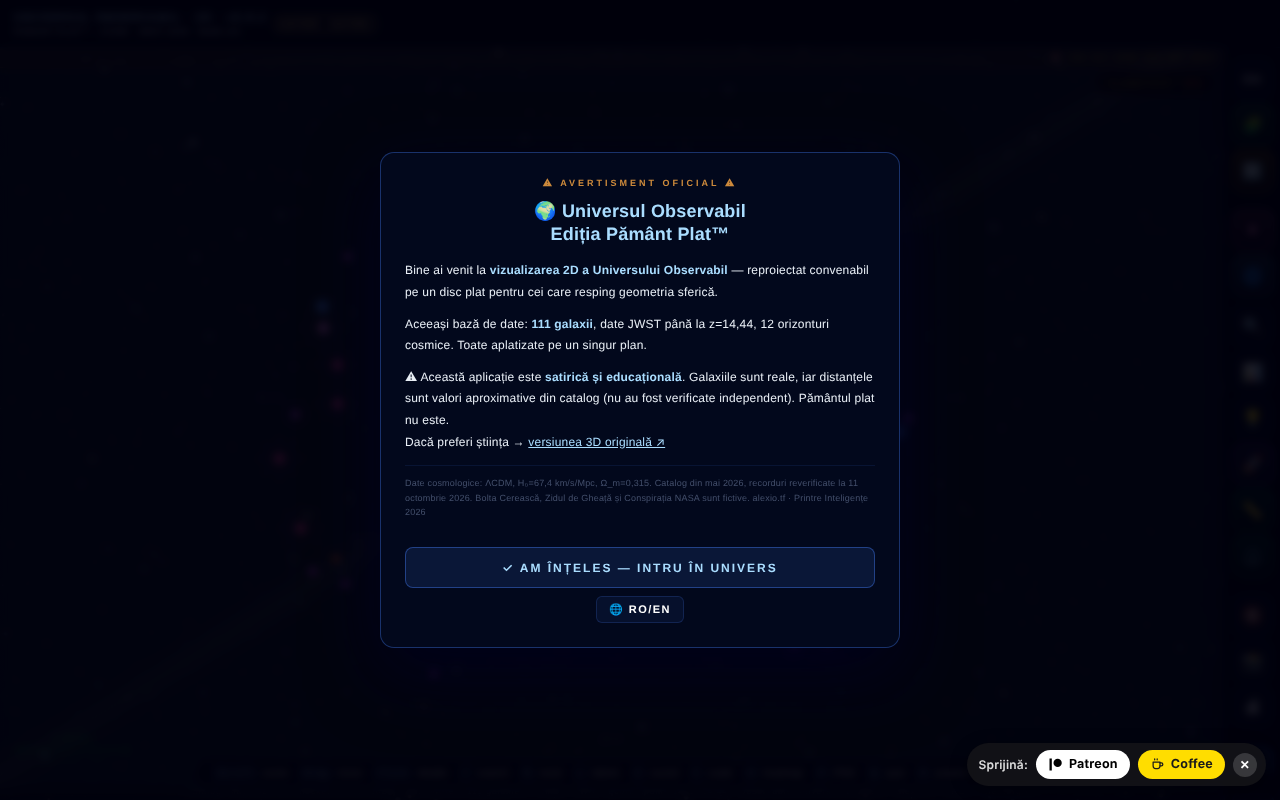
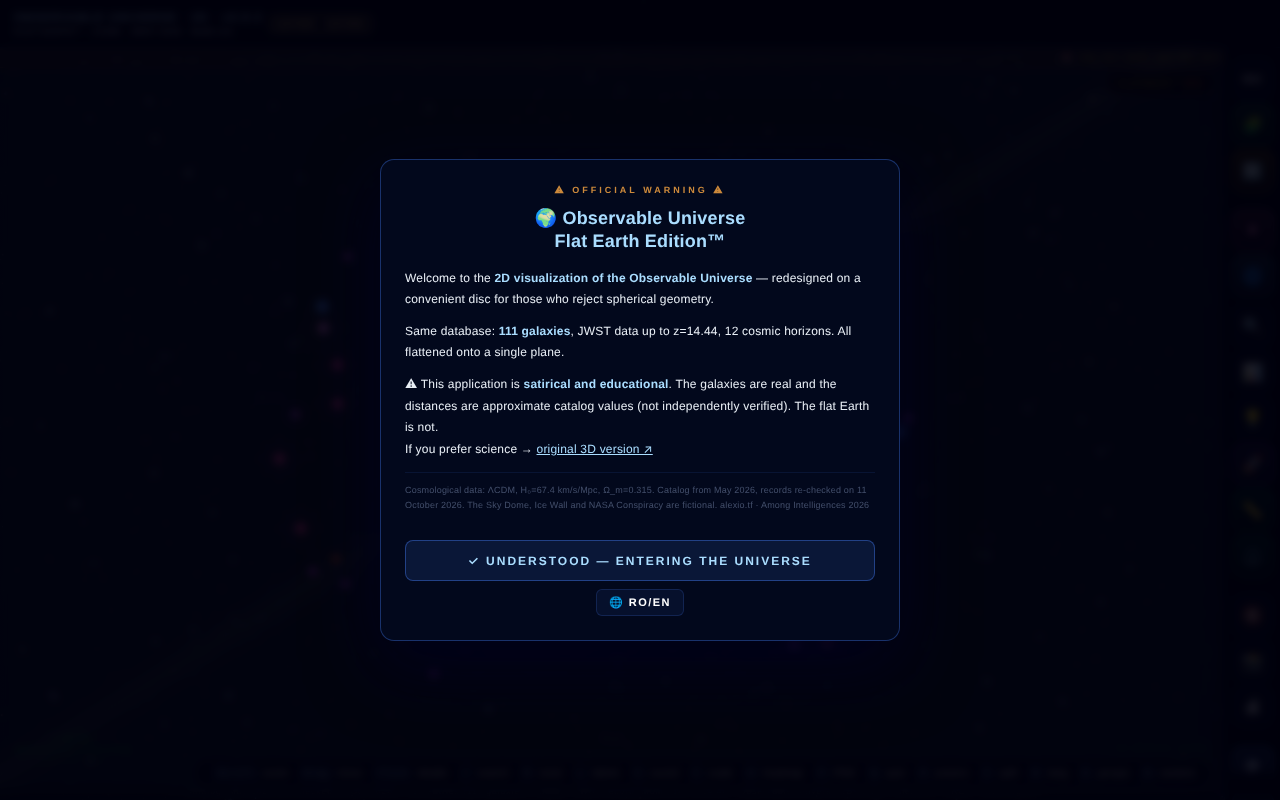
Runda 7 (11 octombrie 2026): defecte noi reparate, hash CSP, îmbunătățiri
Claude-Session: https://claude.ai/code/session_01D2sCEb3hy3nutYexhUfQFs

Changed region(s): [[0.3125, 0.2188, 0.6875, 0.7812], [0.75, 0.9375, 1.0, 1.0]]

diff --git a/index.html b/index.html
@@ -31,16 +31,16 @@
[1 lines of base64/hex data omitted]
 </style>
 
-  <meta http-equiv="Content-Security-Policy" content="default-src 'self'; img-src 'self' data: blob:; style-src 'self' 'unsafe-inline'; font-src 'self' data:; media-src 'self' blob: data:; object-src 'none'; base-uri 'self'; form-action 'self'; worker-src 'self' blob:; script-src 'self' blob: 'sha256-FVyK1YWR1/9w4uQZtFB3BAfkHxmGIktgSaTJ8fmO5vo='; connect-src 'self'">
+  <meta http-equiv="Content-Security-Policy" content="default-src 'self'; img-src 'self' data: blob:; style-src 'self' 'unsafe-inline'; font-src 'self' data:; media-src 'self' blob: data:; object-src 'none'; base-uri 'self'; form-action 'self'; worker-src 'self' blob:; script-src 'self' blob: 'sha256-K1gW7pYahu7icNPE+1ANHS3fIt9LNKQo8BNHj9S5rZU='; connect-src 'self'">
 <meta name="viewport" content="width=device-width,initial-scale=1,viewport-fit=cover,interactive-widget=resizes-content">
-<title>Observable Universe · 2D · v5.9.2 · Flat Earth Edition™</title>
+<title>Observable Universe · 2D · v5.9.3 · Flat Earth Edition™</title>
 <meta name="description" content="2D map of the observable universe — 111 galaxies, 12 cosmic horizons, logarithmic scale. Quiz with leaderboard, LOD zoom, adaptive soundtrack, gravitational groups, permalink with full state. Satirical Flat Earth™ edition. JWST data up to z=14.44. v5.9.1 — UX & accessibility milestone: universal localStorage preferences (CVD, layers, sound, volume persist across sessions); prefers-reduced-motion respected in flyTo / Andromeda / autoRotate; new GUIDE tab 'Simulation Limits' (epistemic honesty); heatmap boost (logarithmic normalization + Gaussian kernel).">
 <meta name="theme-color" content="#040814">
 <meta name="color-scheme" content="dark">
 <meta name="author" content="Alexio — Alexandru Ionuț Chiuță · alexio.tf · ARES (Alianța pentru Reziliență, Exopolitică și Stranietăți) · ares.org.ro">
 <meta name="apple-mobile-web-app-capable" content="yes">
 <meta name="apple-mobile-web-app-status-bar-style" content="black-translucent">
-<meta property="og:title" content="Observable Universe · 2D · v5.9.2 · Flat Earth™">
+<meta property="og:title" content="Observable Universe · 2D · v5.9.3 · Flat Earth™">
 <meta property="og:description" content="111 galaxies on a flat disc — for those who don't believe in spheres. Quiz leaderboard, gravitational groups, adaptive soundtrack. Real JWST data, humor guaranteed.">
 <meta property="og:image" content="https://alexio.tf/og-universe-2d.jpg">
 <script type="application/ld+json">
@@ -1318,7 +1318,7 @@ canvas { will-change: transform; }
 <div id="topbar" role="banner">
   <div style="display:flex;align-items:center;gap:8px;min-width:0">
     <div>
-      <div id="ttl">OBSERVABLE UNIVERSE · 2D · v5.9.2</div>
+      <div id="ttl">OBSERVABLE UNIVERSE · 2D · v5.9.3</div>
       <div id="sub">FLAT EARTH™ · ΛCDM · JWST 2026 · MoM-z14</div>
     </div>
     <span id="satireTag" title="Satirical edition: the Flat Earth elements are fictional / Ediție satirică: elementele Pământ Plat sunt fictive">SATIRĂ · SATIRE</span>
@@ -2098,7 +2098,7 @@ function removeGrandparent(el) {
 // ═══════════════════════════════════════════════════════
 //  VERSION — sursă unică de adevăr pentru număr versiune
 // ═══════════════════════════════════════════════════════
-const VERSION = '5.9.2';
+const VERSION = '5.9.3';
 // N_GAL calculat dinamic după ce GALAXIES e definit (vezi initV3)
 let N_GAL = 0;
 
@@ -3906,6 +3906,11 @@ const GUIDE_TABS_RO = {
     <div class="gfact">💡 <strong>Filozofie:</strong> O hartă bună spune ce e și ce nu e. Această aplicație nu e o fereastră spre univers — e o <em>interpretare</em> educațională a datelor reale, prin alegerile mele de design. Folosește-o ca punct de plecare, nu ca punct de sosire.</div>`,
   changelog: `
     <h3>📋 Istoric versiuni</h3>
+    <h4>v5.9.3 (octombrie 2026) — Riglă tolerantă</h4>
+    <ul>
+      <li>📏 Rigla acceptă și nume parțial (Enter sau ieșire din câmp): dacă potrivirea e unică, galaxia se alege; altfel apare un mesaj cu numărul de potriviri.</li>
+      <li>🪟 Pe mobil, widgetul de sprijin nu mai acoperă fereastra de avertisment (butonul RO/EN).</li>
+    </ul>
     <h4>v5.9.2 (octombrie 2026) — Riglă accesibilă</h4>
     <ul>
       <li>📏 <strong>Rigla</strong>: galaxiile A și B se pot alege și după nume (câmpuri cu listă), fără clic pe hartă — util cu tastatura și pe mobil; buton „Copiază rezultatul”.</li>
@@ -4192,6 +4197,11 @@ const GUIDE_TABS = {
     <div class="gfact">💡 <strong>Philosophy:</strong> A good map says what it is — and what it isn't. This application is not a window onto the universe — it is an educational <em>interpretation</em> of real data, filtered through my design choices. Use it as a starting point, not as a destination.</div>`,
   changelog: `
     <h3>📋 Changelog</h3>
+    <h4>v5.9.3 (October 2026) — Forgiving ruler</h4>
+    <ul>
+      <li>📏 The ruler also accepts partial names (Enter or leaving the field): a unique match selects the galaxy; otherwise a message gives the number of matches.</li>
+      <li>🪟 On mobile, the support widget no longer covers the warning dialog (RO/EN button).</li>
+    </ul>
     <h4>v5.9.2 (October 2026) — Accessible ruler</h4>
     <ul>
       <li>📏 <strong>Ruler</strong>: galaxies A and B can also be chosen by name (inputs with a list), no map click needed — keyboard- and mobile-friendly; “Copy result” button.</li>
@@ -5282,10 +5292,26 @@ function rulerPickInit() {
   if (pa) { pa.value = ''; pa.placeholder = ro ? 'Scrie numele galaxiei…' : 'Type a galaxy name…'; }
   if (pb) { pb.value = ''; pb.placeholder = ro ? 'Scrie numele galaxiei…' : 'Type a galaxy name…'; }
 }
-function rulerPick(which, value) {
+function rulerPick(which, value, final) {
   const v = String(value || '').trim().toLowerCase();
   if (!v) return;
-  const idx = GALAXIES.findIndex(g => g.n.toLowerCase() === v);
+  let idx = GALAXIES.findIndex(g => g.n.toLowerCase() === v || (g.m && (g.m + ' ' + g.n).toLowerCase() === v));
+  if (idx < 0 && final) {
+    // potrivire parțială (la Enter / ieșire din câmp): se acceptă doar dacă e unică
+    const c = [];
+    GALAXIES.forEach((g, i) => { if (g.n.toLowerCase().includes(v)) c.push(i); });
+    const ro = (typeof currentLang !== 'undefined' && currentLang === 'ro');
+    const note = document.getElementById('rpNote');
+    if (c.length === 1) idx = c[0];
+    else {
+      const msg = c.length === 0
+        ? (ro ? 'Nicio galaxie nu conține „' + value.trim() + '”.' : 'No galaxy matches “' + value.trim() + '”.')
+        : (ro ? c.length + ' galaxii se potrivesc cu „' + value.trim() + '”; alege una din listă: ' : c.length + ' galaxies match “' + value.trim() + '”; pick one from the list: ') + c.slice(0, 4).map(i => GALAXIES[i].n).join(', ') + (c.length > 4 ? '…' : '');
+      if (note) note.textContent = msg;
+      if (typeof ariaAnnounce === 'function') ariaAnnounce(msg);
+      return;
+    }
+  }
   if (idx < 0) return;
   if (which === 'A') { if (idx === rulerB) return; rulerA = idx; }
   else { if (idx === rulerA) return; rulerB = idx; }
@@ -5299,7 +5325,7 @@ function rulerPick(which, value) {
 }
 ['A', 'B'].forEach(w => {
   const el = document.getElementById('rpPick' + w);
-  if (el) { el.addEventListener('input', () => rulerPick(w, el.value)); el.addEventListener('change', () => rulerPick(w, el.value)); }
+  if (el) { el.addEventListener('input', () => rulerPick(w, el.value)); el.addEventListener('change', () => rulerPick(w, el.value, true)); }
 });
 
 
@@ -9592,7 +9618,7 @@ window.UV2D.VERSION = VERSION;
   if (!('serviceWorker' in navigator)) return;
   // Inline service worker via blob URL for single-file deployment
   const swCode = `
-const CACHE = 'uv2d-v5.9.2';
+const CACHE = 'uv2d-v5.9.3';
 // BUG 19 FIX: removed ASSETS = [self.location.href] — when the SW is registered via a
 // blob URL, self.location.href IS the blob URL (e.g. blob:https://...), which:
 //   (a) cannot be fetched cross-origin by the SW fetch handler, and
@@ -9755,6 +9781,7 @@ window.addEventListener('load', function initMobileNav() {
 #tf-donate .tf-x,#tf-donate .tf-open{display:inline-flex;align-items:center;justify-content:center;cursor:pointer;text-decoration:none;border:0;color:#fff}
 #tf-donate .tf-x{width:24px;height:24px;border-radius:50%;background:rgba(255,255,255,.16);font-size:12px}
 #tf-donate .tf-open{display:none;width:46px;height:46px;border-radius:50%;background:#e0245e;font-size:20px;box-shadow:0 4px 16px rgba(0,0,0,.32)}
+body:has(#warningOvl:not([style*="none"])) #tf-donate{display:none}
 #tf-donate .tf-cb:checked ~ .tf-panel{display:none}
 #tf-donate .tf-cb:checked ~ .tf-open{display:inline-flex}
 @media (max-width:560px){#tf-donate .tf-lbl{display:none}}

diff --git a/README.md b/README.md
@@ -1,4 +1,4 @@
-# Observable Universe 2D · v5.9.2 · Flat Earth Edition™
+# Observable Universe 2D · v5.9.3 · Flat Earth Edition™
 
 Harta 2D interactivă a universului observabil, pe scară logaritmică, cu 112 intrări de catalog (111 galaxii + fundalul cosmic CMB) — în ediție satirică „Pământ Plat”.
 
@@ -53,6 +53,10 @@ Afirmațiile „record” (MoM-z14, z = 14,44) sunt valabile **la data catalogul
 Descarcă `index.html` și deschide-l în browser; funcționează fără internet. Aplicația rămâne funcțională fără internet (service worker-ul din blob este inactiv).
 
 ## Istoric / Changelog
+
+### 11 octombrie 2026 (a treia trecere) — versiunea 5.9.3
+- Rigla: potrivire parțială a numelui (la Enter/ieșire din câmp) cu mesaj clar când nu există sau sunt mai multe potriviri.
+- Widgetul de sprijin se ascunde cât timp e afișat avertismentul inițial (pe 360 px acoperea butonul RO/EN). CSP: hash recalculat.
 
 ### 11 octombrie 2026 (a doua trecere) — versiunea 5.9.2
 - Rigla: alegerea galaxiilor A/B după nume (fără clic pe hartă) și „Copiază rezultatul”; textele afirmă acum „111 galaxii” (+ CMB = 112 intrări) în loc de „112 galaxii”; istoric RO/EN în ghid; CSP: hash recalculat.
